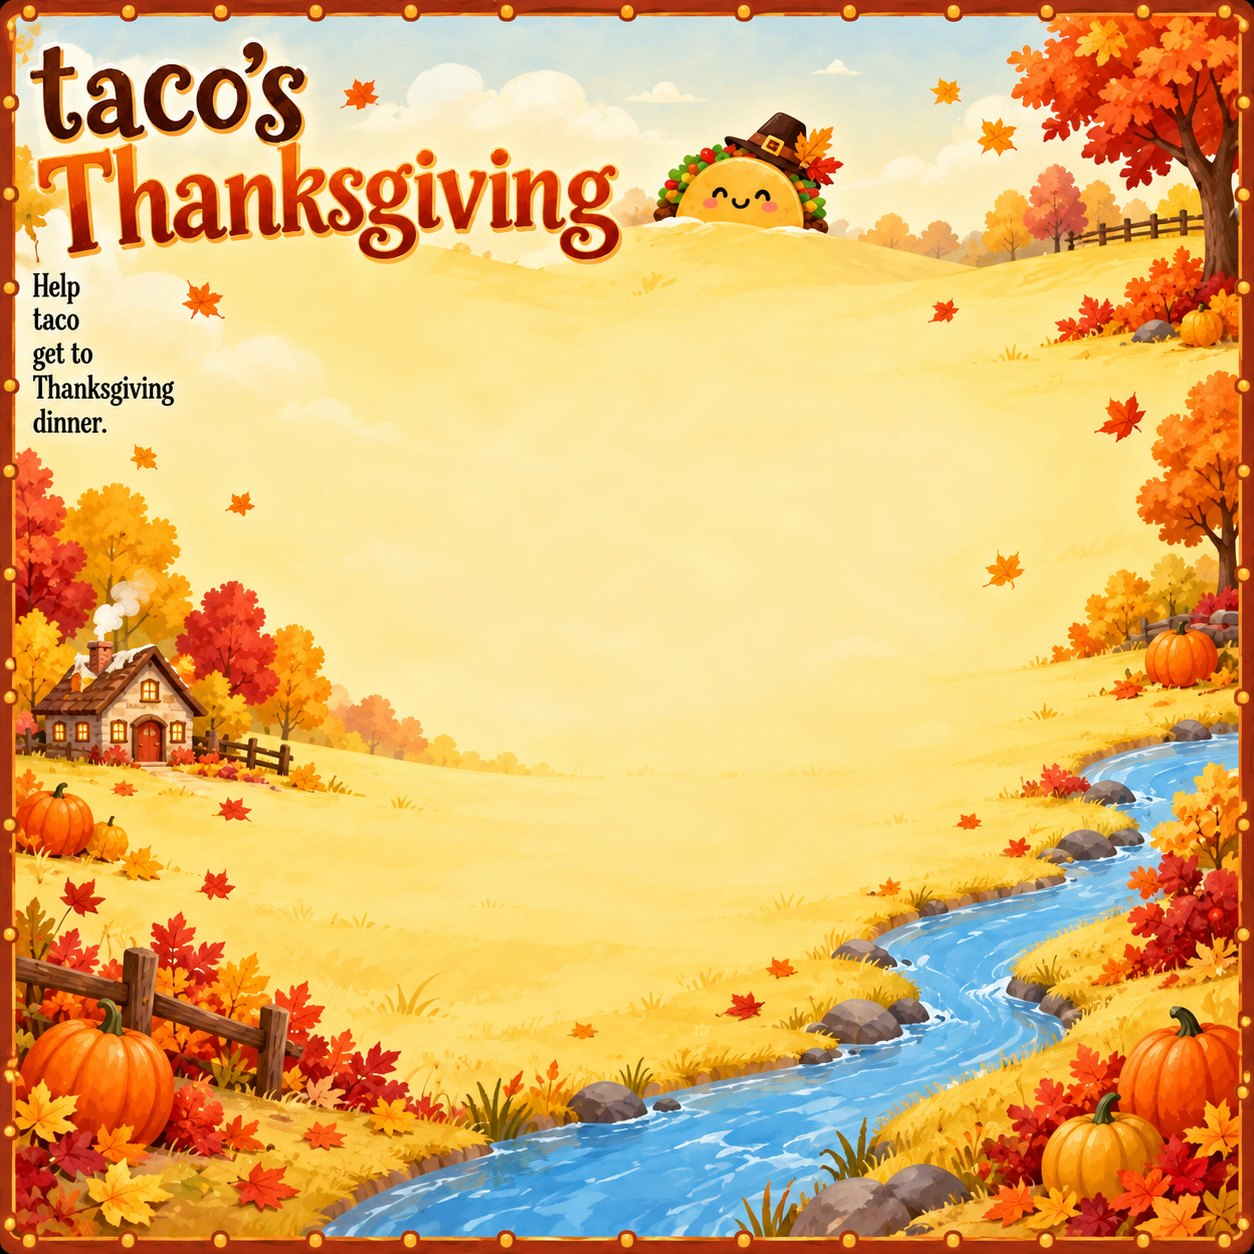
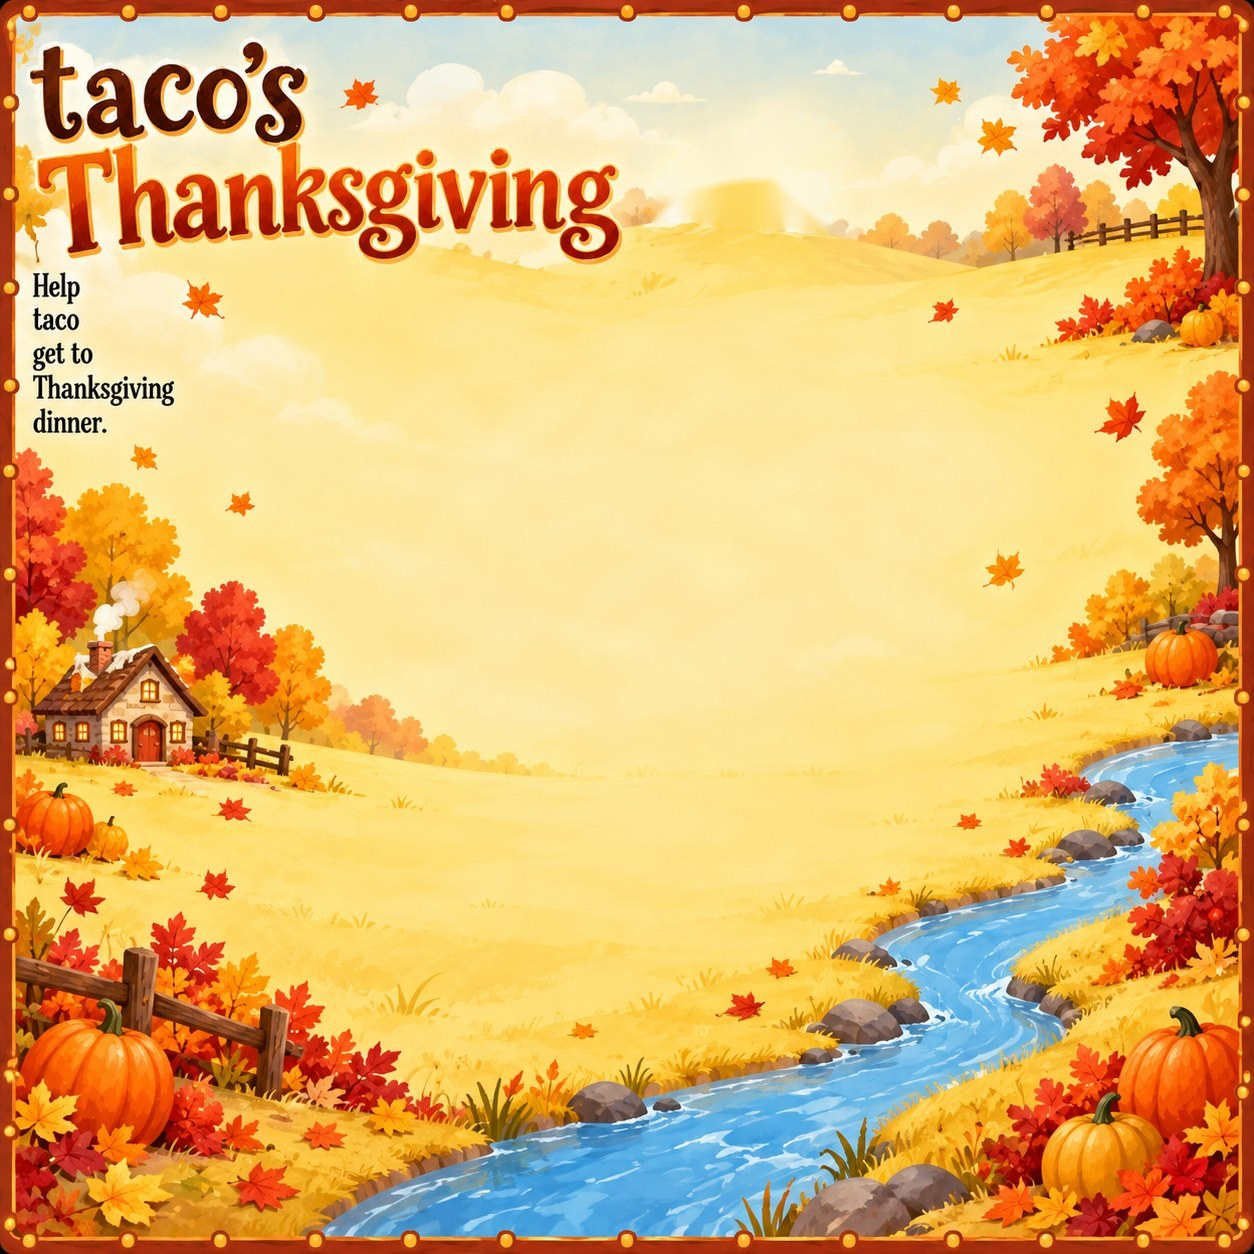
Taco peeks and wiggles on the taco boards; card list moves off the site

Changed region(s): [[0.4976, 0.0933, 0.6842, 0.1866]]

diff --git a/docs/js/content.js b/docs/js/content.js
@@ -229,6 +229,8 @@
       hat: 'pilgrim',
       look: 'thanksgiving',
       art: 'img/themes/taco-thanksgiving.jpg',   // Hummingbird's board art, title included
+      // Taco cut out of the art so he can move; clip keeps him behind the hill.
+      artHero: { src: 'img/themes/taco-thanksgiving-taco.png', x: 518.34, y: 87.72, w: 156.3, h: 98.88, clip: 'M488.8,54.2 L702.6,54.2 L702.6,178.9 L699.4,179.1 L696.2,179.4 L693.0,179.6 L689.8,179.8 L686.6,180.0 L683.4,180.1 L680.2,180.3 L677.0,180.4 L673.8,180.6 L670.7,180.7 L667.5,180.8 L664.3,180.8 L661.1,180.9 L657.9,180.9 L654.7,181.0 L651.5,181.0 L648.3,181.0 L645.1,181.0 L641.9,180.9 L638.8,180.9 L635.6,180.8 L632.4,180.7 L629.2,180.6 L626.0,180.5 L622.8,180.4 L619.6,180.2 L616.4,180.1 L613.2,179.9 L610.0,179.7 L606.9,179.5 L603.7,179.3 L600.5,179.0 L597.3,178.8 L594.1,178.5 L590.9,178.2 L587.7,177.9 L584.5,177.6 L581.3,177.2 L578.1,176.9 L575.0,176.5 L571.8,176.1 L568.6,175.7 L565.4,175.3 L562.2,174.9 L559.0,174.4 L555.8,173.9 L552.6,173.5 L549.4,173.0 L546.3,172.5 L543.1,171.9 L539.9,171.4 L536.7,170.8 L533.5,170.2 L530.3,169.6 L527.1,169.0 L523.9,168.4 L520.7,167.8 L517.5,167.1 L514.4,166.4 L511.2,165.8 L508.0,165.1 L504.8,164.3 L501.6,163.6 L498.4,162.8 L495.2,162.1 L492.0,161.3 L488.8,160.5 Z' },
       banner: ['#d9661f', '#fff4dc'],
       palette: { ground: '#f3d27a', ground2: '#d9a24a', stone: '#fff7e6', stoneDark: '#9a6a2e', ink: '#4a2a10', accent: '#d9661f', good: '#4f8a2b', bad: '#b23a1c', water: '#5f9bbd' },
       card: { back: 'Taco’s Thanksgiving', treasure: 'Harvest card', trick: 'Leftovers card', task: 'Chore card', fate: 'Wishbone card' },
@@ -263,6 +265,8 @@
       hat: 'santa',
       look: 'christmas',
       art: 'img/themes/taco-christmas.jpg',   // Hummingbird's board art, title included
+      // Taco cut out of the art so he can move; clip keeps him behind the hill.
+      artHero: { src: 'img/themes/taco-christmas-taco.png', x: 521.53, y: 85.33, w: 128.39, h: 93.3, clip: 'M492.0,51.8 L677.0,51.8 L677.0,172.7 L673.8,173.1 L670.7,173.4 L667.5,173.8 L664.3,174.1 L661.1,174.3 L657.9,174.6 L654.7,174.8 L651.5,175.0 L648.3,175.2 L645.1,175.3 L641.9,175.4 L638.8,175.5 L635.6,175.6 L632.4,175.6 L629.2,175.6 L626.0,175.6 L622.8,175.6 L619.6,175.5 L616.4,175.4 L613.2,175.3 L610.0,175.1 L606.9,174.9 L603.7,174.7 L600.5,174.5 L597.3,174.2 L594.1,174.0 L590.9,173.7 L587.7,173.3 L584.5,173.0 L581.3,172.6 L578.1,172.1 L575.0,171.7 L571.8,171.2 L568.6,170.7 L565.4,170.2 L562.2,169.7 L559.0,169.1 L555.8,168.5 L552.6,167.8 L549.4,167.2 L546.3,166.5 L543.1,165.8 L539.9,165.0 L536.7,164.3 L533.5,163.5 L530.3,162.7 L527.1,161.8 L523.9,161.0 L520.7,160.1 L517.5,159.1 L514.4,158.2 L511.2,157.2 L508.0,156.2 L504.8,155.2 L501.6,154.1 L498.4,153.0 L495.2,151.9 L492.0,150.8 Z' },
       banner: ['#d7263d', '#fff'],
       palette: { ground: '#e9f1f7', ground2: '#c9dbe8', stone: '#ffffff', stoneDark: '#9db4c6', ink: '#24384a', accent: '#d7263d', good: '#2fb35a', bad: '#3a6ea5', water: '#a9d6f0' },
       card: { back: 'Taco’s Christmas', treasure: 'Gift card', trick: 'Coal card', task: 'Carol card', fate: 'Snow globe' },

diff --git a/docs/index.html b/docs/index.html
@@ -21,7 +21,7 @@
 <link rel="preconnect" href="https://fonts.googleapis.com">
 <link rel="preconnect" href="https://fonts.gstatic.com" crossorigin>
 <link href="https://fonts.googleapis.com/css2?family=Atkinson+Hyperlegible:ital,wght@0,400;0,700;1,400&family=Grenze+Gotisch:wght@500;700;800&family=Mountains+of+Christmas:wght@700&family=Cherry+Swash:wght@700&display=swap" rel="stylesheet">
-<link rel="stylesheet" href="css/game.css?v=20261019m">
+<link rel="stylesheet" href="css/game.css?v=20261019n">
 <script data-goatcounter="https://chesters-escape.goatcounter.com/count"
         async src="//gc.zgo.at/count.js"></script>
 </head>
@@ -100,7 +100,7 @@
   </div>
   <div class="foot-meta">
     <div class="foot-count" id="footCount" hidden></div>
-    <span class="foot-updated" id="footUpdated" data-updated="2026-10-20T00:14:00Z">Site updated recently</span>
+    <span class="foot-updated" id="footUpdated" data-updated="2026-10-20T00:25:00Z">Site updated recently</span>
   </div>
 </footer>
 
@@ -145,13 +145,13 @@
 <div class="mbar" id="mbar" hidden></div>
 <div class="toast" id="toast" role="status" aria-live="polite"></div>
 
-<script src="js/config.js?v=20261019m"></script>
-<script src="js/content.js?v=20261019m"></script>
-<script src="js/engine.js?v=20261019m"></script>
-<script src="js/render.js?v=20261019m"></script>
-<script src="js/dice.js?v=20261019m"></script>
-<script src="js/services.js?v=20261019m"></script>
-<script src="js/store.js?v=20261019m"></script>
-<script src="js/app.js?v=20261019m"></script>
+<script src="js/config.js?v=20261019n"></script>
+<script src="js/content.js?v=20261019n"></script>
+<script src="js/engine.js?v=20261019n"></script>
+<script src="js/render.js?v=20261019n"></script>
+<script src="js/dice.js?v=20261019n"></script>
+<script src="js/services.js?v=20261019n"></script>
+<script src="js/store.js?v=20261019n"></script>
+<script src="js/app.js?v=20261019n"></script>
 </body>
 </html>

diff --git a/docs/js/render.js b/docs/js/render.js
@@ -89,7 +89,7 @@
   }
   // Taco: the Beaters mascot, a smiling taco shell with the fillings peeking over the top.
   function taco(x, y, s, hat) {
-    var o = '<g transform="translate(' + x + ',' + y + ') scale(' + s + ')">';
+    var o = '<g transform="translate(' + x + ',' + y + ') scale(' + s + ')"><g class="taco-move">';
     o += '<ellipse cx="0" cy="29" rx="29" ry="5" fill="#000" opacity=".28"/>';
     // fillings along the top edge of the shell: lettuce, tomato and meat
     var fill = [[-26, 14, 6, '#5fb83a'], [-23, 4, 6.5, '#6cc443'], [-16, -4, 6.5, '#5fb83a'], [-7, -8, 6.5, '#6cc443'], [3, -9, 6.5, '#5fb83a'], [13, -6, 6.5, '#6cc443'], [21, 1, 6.5, '#5fb83a'], [26, 11, 6, '#6cc443'],
@@ -102,7 +102,7 @@
     o += '<path d="M-4,18 q4,4.5 8,0" fill="none" stroke="#3a2410" stroke-width="2.2" stroke-linecap="round"/>';
     o += '<ellipse cx="-16" cy="18" rx="4" ry="2.4" fill="#ff7b9c" opacity=".6"/><ellipse cx="16" cy="18" rx="4" ry="2.4" fill="#ff7b9c" opacity=".6"/>';
     if (hat && hat !== 'none') o += '<g transform="translate(2,4) rotate(8)">' + hatSvg(hat) + '</g>';
-    o += '</g>';
+    o += '</g></g>';
     return o;
   }
   // The theme's main character: Chester, or Taco on the Beaters themes.
@@ -268,6 +268,11 @@
     var art = board.background || theme.art;
     if (art) {
       o += '<image href="' + esc(art) + '" x="0" y="0" width="1000" height="1000" preserveAspectRatio="xMidYMid slice"/>';
+      var hh = !board.background && theme.artHero;
+      if (hh) {
+        // The art's hero on its own layer so it can peek and wiggle (CSS), clipped at the hill line.
+        o += '<clipPath id="heroClip"><path d="' + hh.clip + '"/></clipPath><g clip-path="url(#heroClip)"><image class="art-hero" href="' + esc(hh.src) + '" x="' + hh.x + '" y="' + hh.y + '" width="' + hh.w + '" height="' + hh.h + '"/></g>';
+      }
       return o;
     }
     o += '<rect width="1000" height="1000" fill="url(#gGround)"/>';

diff --git a/docs/css/game.css b/docs/css/game.css
@@ -487,6 +487,10 @@ body.gated .foot { border-top: 0; margin-top: 0; }
 @keyframes leaf { from { transform: translate(0, 0) rotate(0); } 25% { transform: translate(var(--sway, 20px), 260px) rotate(110deg); } 50% { transform: translate(calc(var(--sway, 20px) * -1), 520px) rotate(200deg); } 75% { transform: translate(var(--sway, 20px), 780px) rotate(290deg); } to { transform: translate(0, 1060px) rotate(380deg); } }
 @keyframes snow { from { transform: translate(0, 0); } 50% { transform: translate(var(--sway, 10px), 520px); } to { transform: translate(0, 1040px); } }
 .board-svg .eyes, .brand-crow .eyes, .gate-crow .eyes, .cback .eyes { animation: blink 5.5s infinite; transform-box: fill-box; transform-origin: center; }
+/* Taco does a little dip and wiggle every few seconds, the way Chester blinks. */
+.board-svg .art-hero, .taco-move { animation: peek 6s ease-in-out infinite; transform-box: fill-box; transform-origin: 50% 100%; }
+.taco-move { transform-origin: 50% 92%; }
+@keyframes peek { 0%, 60%, 100% { transform: none; } 65% { transform: translateY(6%) scale(1.02, .97); } 71% { transform: rotate(-4deg); } 77% { transform: rotate(3.5deg); } 83% { transform: rotate(-2deg); } 89% { transform: rotate(1deg); } 94% { transform: none; } }
 @keyframes blink { 0%,94%,100% { transform: scaleY(1); } 97% { transform: scaleY(.1); } }
 
 /* ---- roll preview, landing ---- */

diff --git a/docs/designer.html b/docs/designer.html
@@ -10,8 +10,8 @@
 <link rel="preconnect" href="https://fonts.googleapis.com">
 <link rel="preconnect" href="https://fonts.gstatic.com" crossorigin>
 <link href="https://fonts.googleapis.com/css2?family=Atkinson+Hyperlegible:ital,wght@0,400;0,700;1,400&family=Grenze+Gotisch:wght@500;700;800&family=Mountains+of+Christmas:wght@700&family=Cherry+Swash:wght@700&display=swap" rel="stylesheet">
-<link rel="stylesheet" href="css/game.css?v=20261019m">
-<link rel="stylesheet" href="css/designer.css?v=20261019m">
+<link rel="stylesheet" href="css/game.css?v=20261019n">
+<link rel="stylesheet" href="css/designer.css?v=20261019n">
 <script data-goatcounter="https://chesters-escape.goatcounter.com/count"
         async src="//gc.zgo.at/count.js"></script>
 </head>
@@ -89,9 +89,9 @@
 
 <div class="toast" id="toast" role="status" aria-live="polite"></div>
 
-<script src="js/content.js?v=20261019m"></script>
-<script src="js/engine.js?v=20261019m"></script>
-<script src="js/render.js?v=20261019m"></script>
-<script src="js/designer.js?v=20261019m"></script>
+<script src="js/content.js?v=20261019n"></script>
+<script src="js/engine.js?v=20261019n"></script>
+<script src="js/render.js?v=20261019n"></script>
+<script src="js/designer.js?v=20261019n"></script>
 </body>
 </html>

diff --git a/README.md b/README.md
@@ -29,10 +29,6 @@ If you played a map and it doesn't show up (for example a replay that wasn't a n
 
 Each clan Discord server gets its own game, with its own board, players and theme. Sign in with Discord and you land in your clan's game. If you're in more than one of the clan servers, you pick a game the first time and can switch any time with the server icons at the top of the page.
 
-## Cards
-
-[The card list](https://spanky3651.github.io/Chesters-Escape/cards.html?utm_source=github&utm_campaign=readme) shows all 20 cards for each theme and what each one does.
-
 ## Board designer
 
 `designer.html` lays out a board on top of your own art: upload the image, click each square in order, and set what it does (map, blocker, card drop, move, lose a turn, back to start, or a current that carries you elsewhere). Themes swap the art, event names and card text, so the same board can run as a Halloween, Thanksgiving or Christmas game. A theme can also bring its own board art, like the Taco's Thanksgiving and Taco's Christmas boards.
